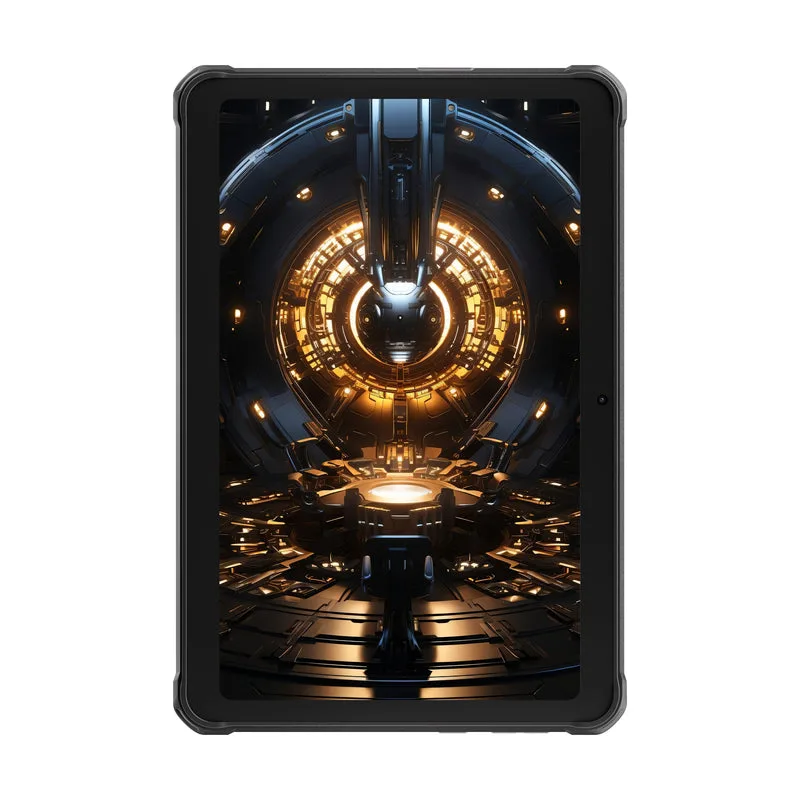
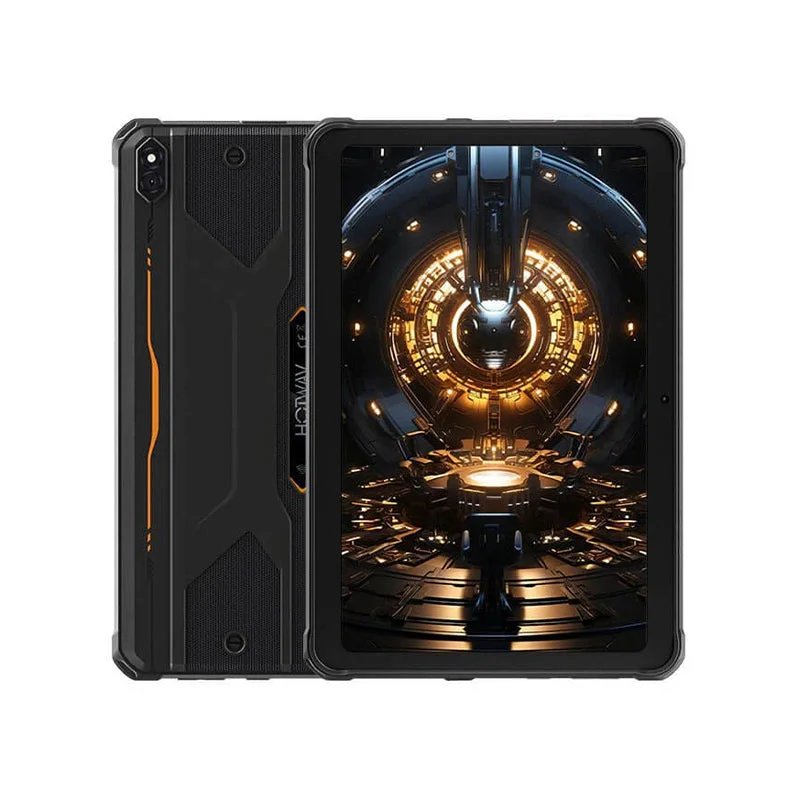
Fix product images: front-facing shots, full-bleed card layout
- Replaced all primary product images with front-facing shots
- CSS: product cards now use object-fit cover with no padding
- CSS: product gallery uses object-fit cover for full bleed
- Removed original jpg/png source files, WebP only
- Images sourced from manufacturer stores (Ulefone, ONERugged, HOTWAV, Emdoor)

diff --git a/css/style.css b/css/style.css
@@ -624,19 +624,19 @@ input, select, textarea { font-family: inherit; font-size: inherit; }
 
 .product-card-image {
   position: relative;
-  aspect-ratio: 4/3;
+  aspect-ratio: 1/1;
   background: linear-gradient(135deg, #f0ede8 0%, #e8e5e0 100%);
   display: flex;
   align-items: center;
   justify-content: center;
   overflow: hidden;
-  padding: 1.5rem;
+  padding: 0;
 }
 
 .product-card-image img {
-  width: 80%;
-  height: 80%;
-  object-fit: contain;
+  width: 100%;
+  height: 100%;
+  object-fit: cover;
   transition: transform var(--transition);
 }
 
@@ -1013,9 +1013,9 @@ input, select, textarea { font-family: inherit; font-size: inherit; }
 }
 
 .product-gallery-main img {
-  width: 85%;
-  height: 85%;
-  object-fit: contain;
+  width: 100%;
+  height: 100%;
+  object-fit: cover;
 }
 
 .product-gallery-thumbs {
